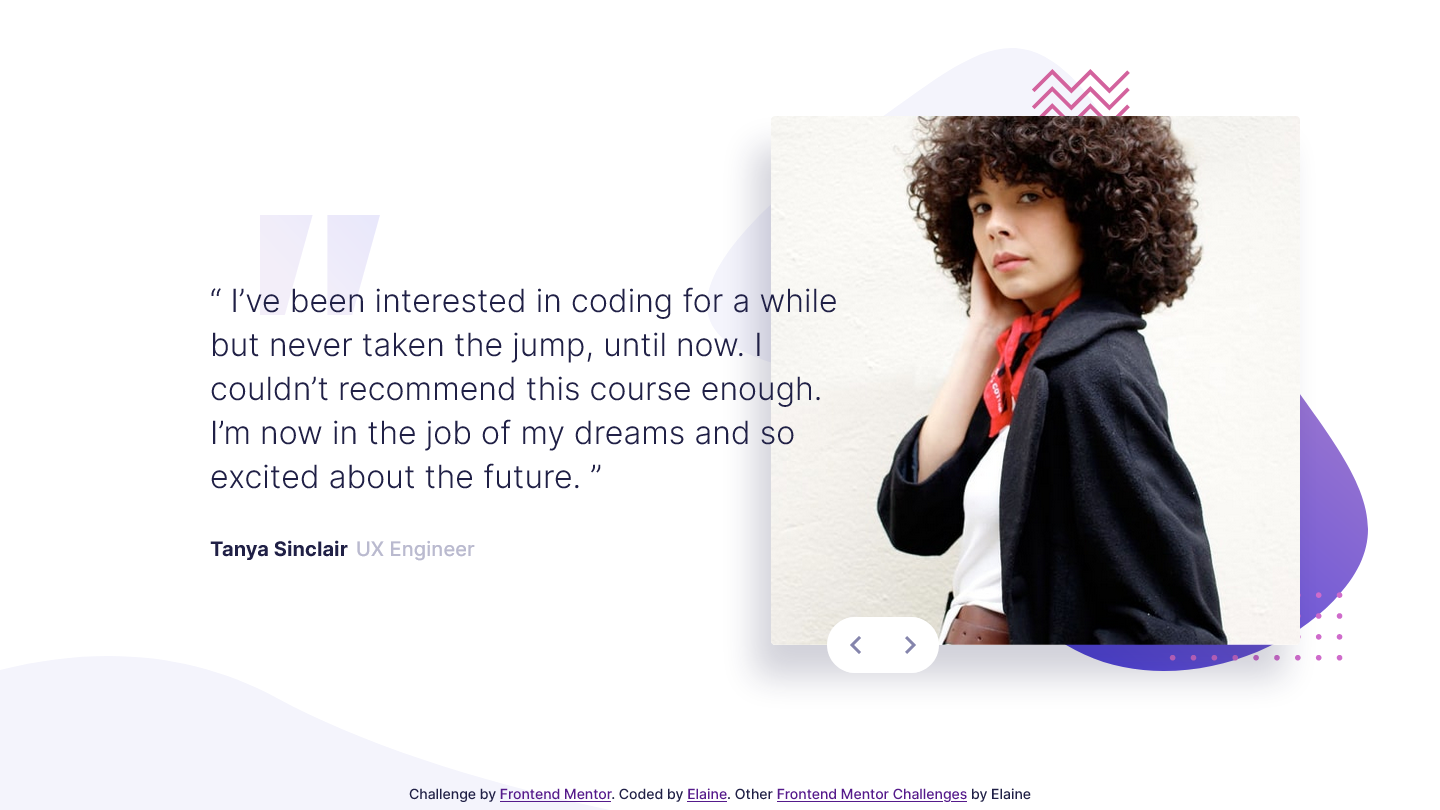
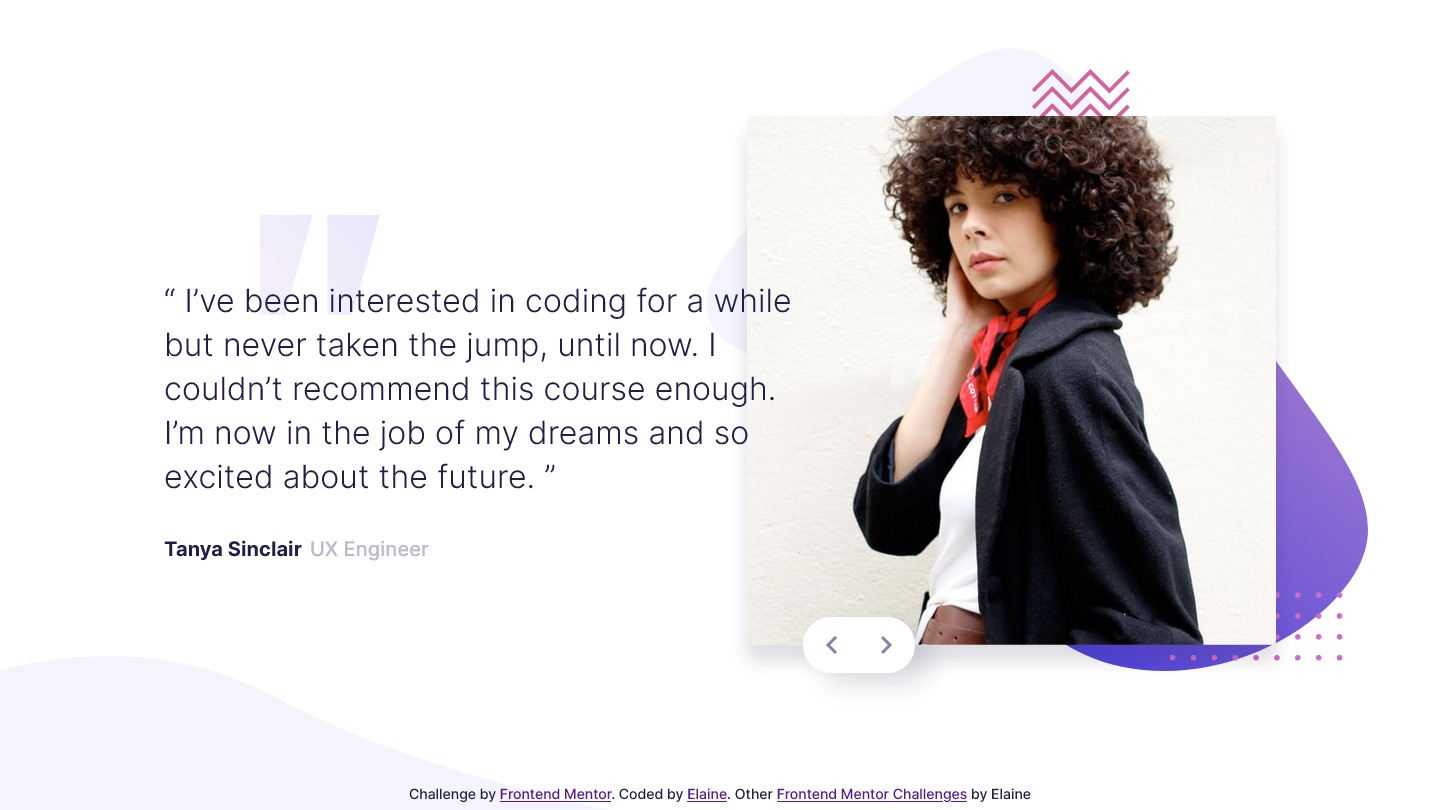
Add Coding Bootcamp testimonials

diff --git a/codingbootcamptestimonials/stylesheet.scss b/codingbootcamptestimonials/stylesheet.scss
@@ -28,7 +28,6 @@
   --pad-wide: 4rem;
   --w-image: min(100%, 33.5rem);
   --w-text: min(100%, 33.5rem);
-  // --w-image-max: 33.5rem;
   --debug: 1px magenta solid;
 }
 
@@ -38,8 +37,6 @@
     --lh-content: 1.375;
     --fs-profile: var(--fs-600);
     --w-text: clamp(28rem, calc(4.6rem + 39vw), 39.7rem);
-    // --w-image: var(--w-image-max);
-    // --fs-content: var(--fs-900);
   }
 }
 // / CSS reset
@@ -452,7 +449,7 @@ body {
   .slider-container {
     width: min(80%, var(--w-image));
     margin-block: 4.25rem;
-    margin-inline: min(10%, 4rem);
+    margin-inline: 2.5rem auto;
     box-shadow: 0rem 1rem 1rem hsla(var(--clr-neutral-700), 0.15);
   }
   .slider-arrows {
@@ -482,7 +479,7 @@ body {
 
   .text-group {
     position: relative;
-    padding-inline: 5.8rem;
+    padding-inline: 2rem 0;
     order: -1;
     margin: 0;
   }

diff --git a/codingbootcamptestimonials/stylesheet.css b/codingbootcamptestimonials/stylesheet.css
@@ -402,7 +402,7 @@ body {
   .slider-container {
     width: min(80%, var(--w-image));
     margin-block: 4.25rem;
-    margin-inline: min(10%, 4rem);
+    margin-inline: 2.5rem auto;
     box-shadow: 0rem 1rem 1rem hsla(var(--clr-neutral-700), 0.15);
   }
   .slider-arrows {
@@ -429,7 +429,7 @@ body {
   }
   .text-group {
     position: relative;
-    padding-inline: 5.8rem;
+    padding-inline: 2rem 0;
     order: -1;
     margin: 0;
   }
